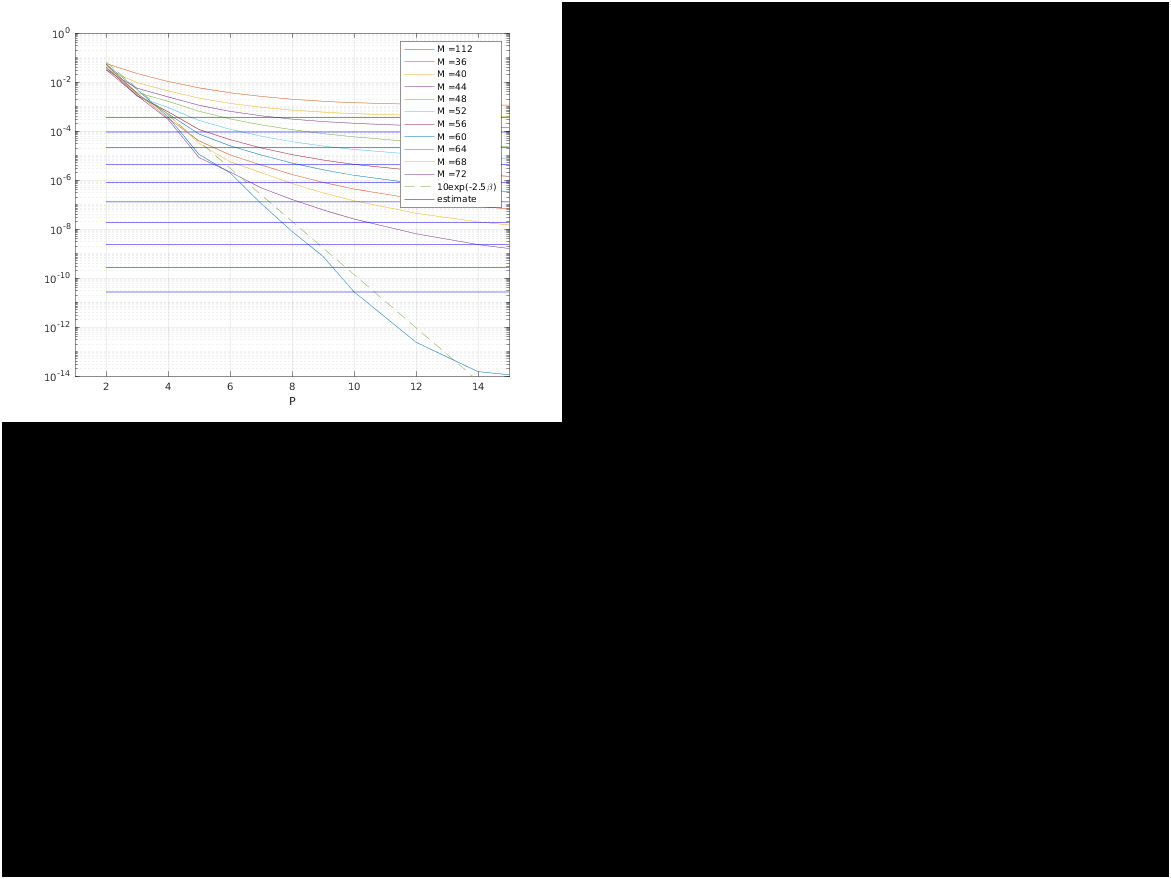
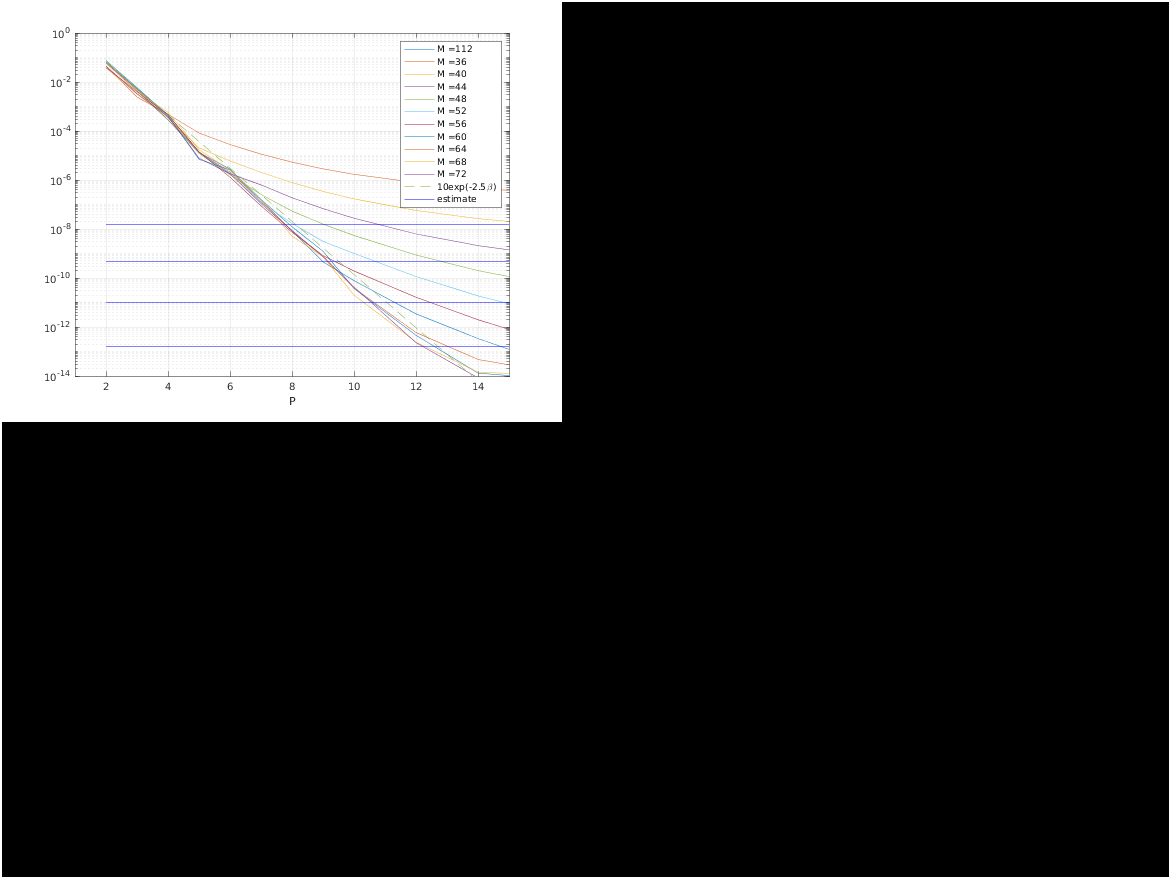
imgs

Changed region(s): [[0.0922, 0.0614, 0.4304, 0.43]]

diff --git a/SE_Stokes_run/SE3P_Stokes/P_error.m b/SE_Stokes_run/SE3P_Stokes/P_error.m
@@ -17,7 +17,7 @@ opt.box = box;
 
 M0 = 128; % Set M0=M/L, the restu * 1+ is automatic
 opt.M = M0*opt.box;
-opt.xi = 25;
+opt.xi = 15;
 opt.betaP = 2.5;
 opt.c = sqrt(0.91);
 %opt.window = 'kaiser_exact';
